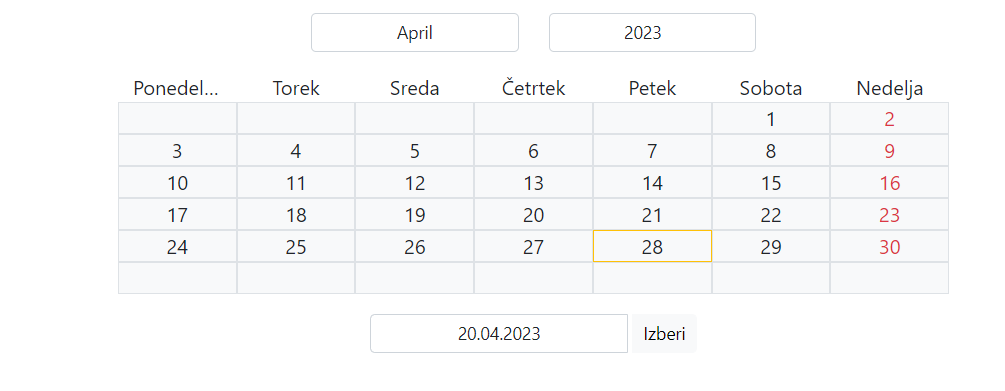
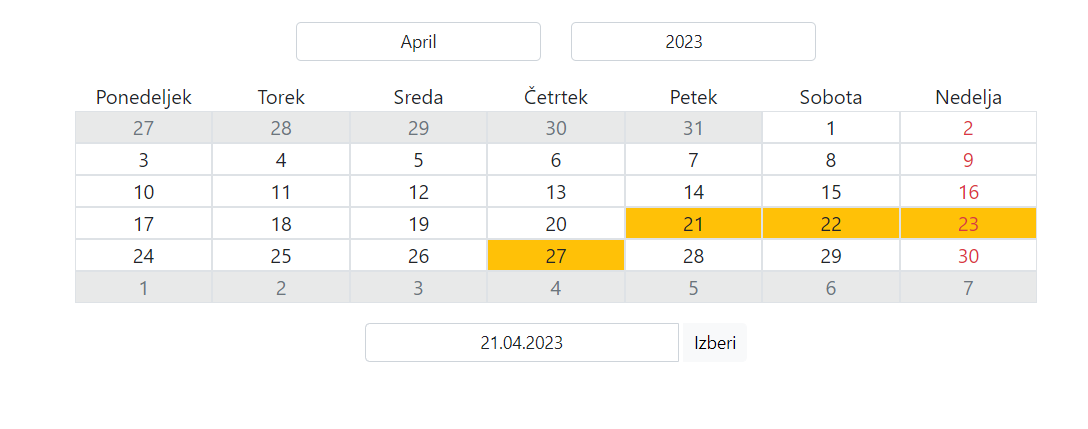
✏ update README

diff --git a/README.md b/README.md
@@ -8,11 +8,12 @@
 - lahko vnesemo poljuben datum (format: dd.MM.yyyy) v polje pod koledarom in klikom na gumb "Izberi" nam se koledar posodobi
 
 ## Videz koledara
-Slika prikazuje videz koledarja za dan 20.04.2023:
-
+- Slika prikazuje videz koledarja za dan 21.04.2023
+- Na sliki lahko vidimo praznik Dan upora proti okupatorju 27.04 in
+- Muslimanski verski praznik Bajram 21-23.04
 ![alt text](./src/assets/calendar.png)
 
-Koledar je tudi lepo odziven na manjših zaslonih:
+- Koledar je tudi lepo odziven na manjših zaslonih:
 ![alt text](./src/assets/calendar_small.png)
 
 ## Lokalna namestitev
